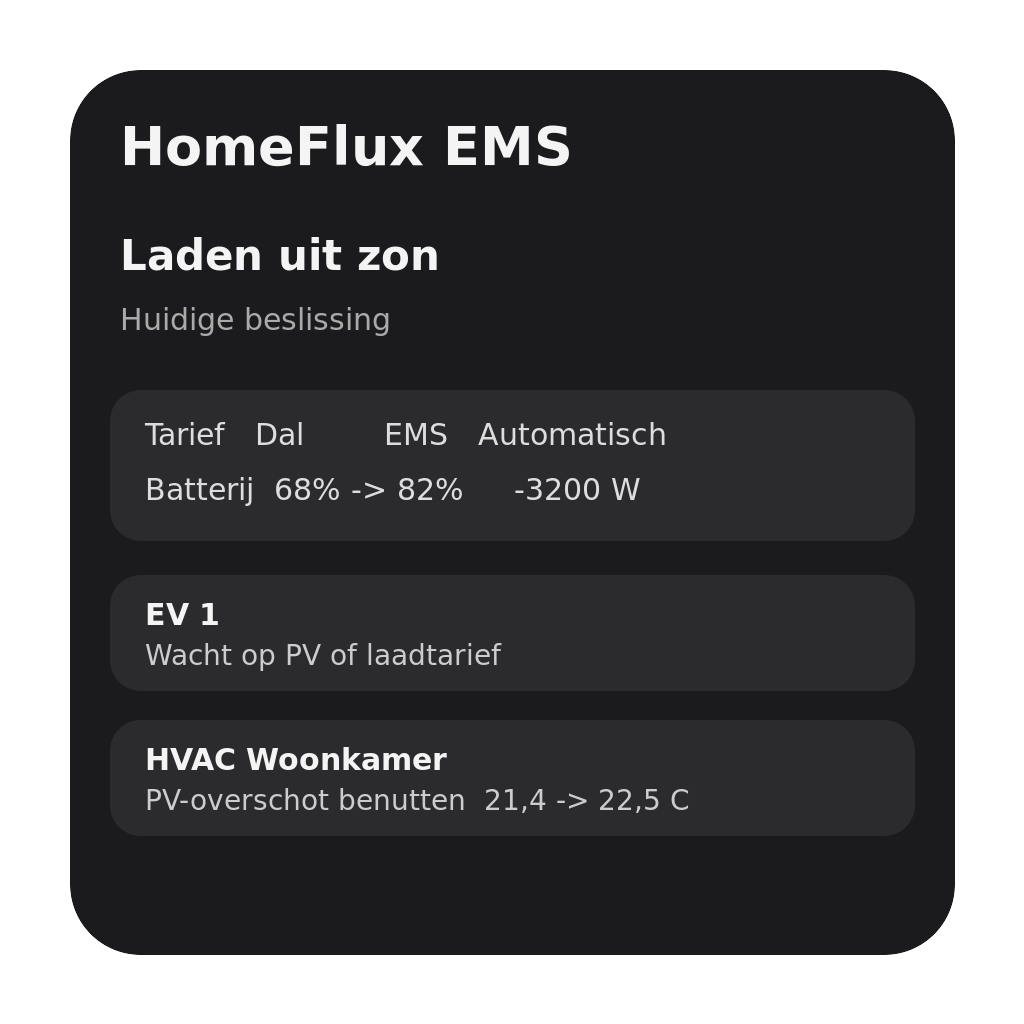
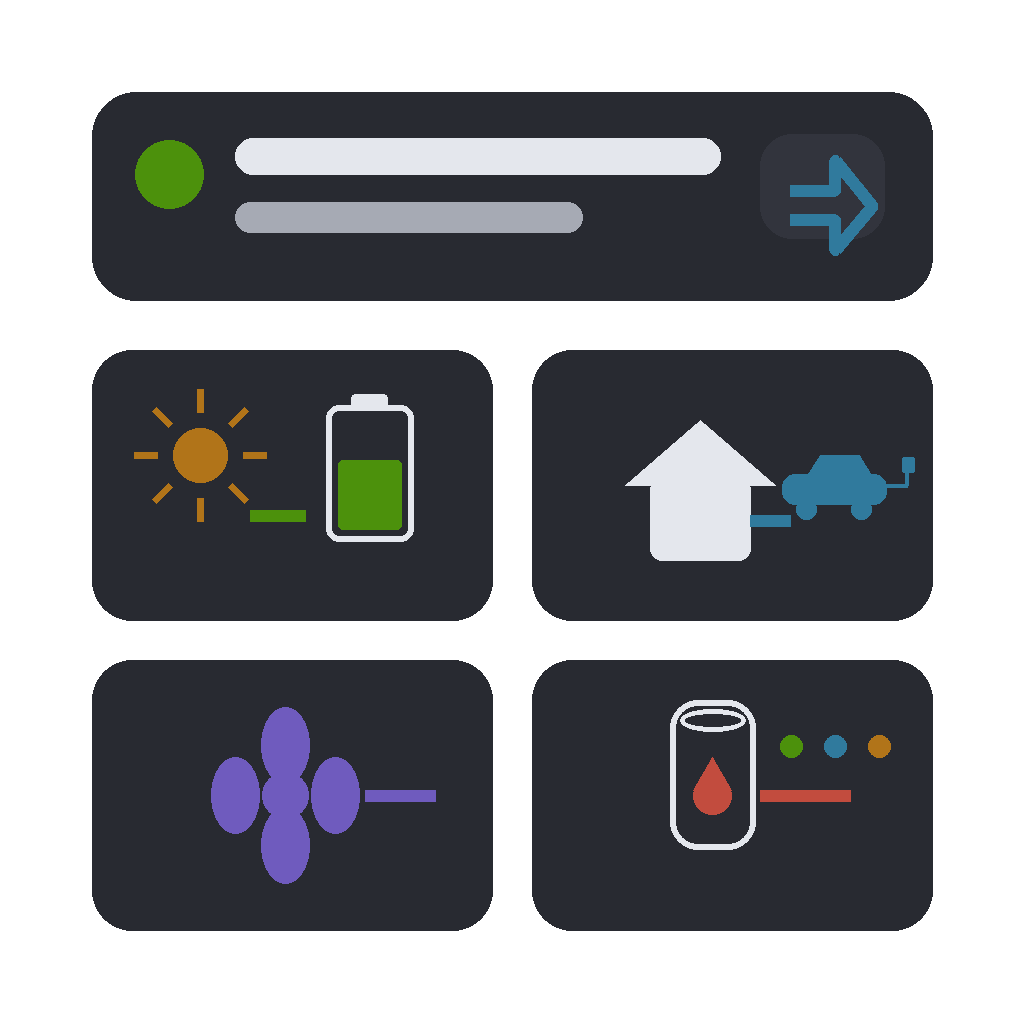
Prepare release v0.4.17

Changed region(s): [[0.0625, 0.0625, 0.9375, 0.9375], [0.125, 0.6875, 0.4375, 0.875]]

diff --git a/test/settings-startup.test.js b/test/settings-startup.test.js
@@ -15,13 +15,13 @@ const localeEn = JSON.parse(fs.readFileSync(path.join(root, 'locales', 'en.json'
 const settingsTranslationEn = fs.readFileSync(path.join(root, 'settings', 'translations', 'en.json'), 'utf8');
 
 for (const manifest of [appJson, composeJson]) {
-  assert.equal(manifest.version, '0.4.16');
+  assert.equal(manifest.version, '0.4.17');
   assert.deepStrictEqual(manifest.api.getSettingsSnapshot, { method: 'GET', path: '/settings-snapshot' });
   assert.deepStrictEqual(manifest.api.simulatePlanning, { method: 'POST', path: '/planning/simulate' });
   assert.deepStrictEqual(manifest.api.getSavings, { method: 'GET', path: '/savings' });
 }
-assert.equal(localeNl.settings.subtitle, 'v0.4.16 — HomeFlux, jouw energie, anders geregeld');
-assert.equal(localeEn.settings.subtitle, 'v0.4.16 — HomeFlux, your energy, managed differently');
+assert.equal(localeNl.settings.subtitle, 'v0.4.17 — HomeFlux, jouw energie, anders geregeld');
+assert.equal(localeEn.settings.subtitle, 'v0.4.17 — HomeFlux, your energy, managed differently');
 assert(apiJs.includes('async getSettingsSnapshot({ homey })'));
 assert(apiJs.includes('homey.app.getSettingsSnapshot()'));
 assert(appJs.includes('getSettingsSnapshot()'));

diff --git a/test/widget.test.js b/test/widget.test.js
@@ -18,11 +18,11 @@ const packageLock = JSON.parse(fs.readFileSync(path.join(root, 'package-lock.jso
 
 assert.equal(appCompose.compatibility, '>=12.3.0');
 assert.equal(manifest.compatibility, appCompose.compatibility);
-assert.equal(manifest.version, '0.4.16');
-assert.equal(appCompose.version, '0.4.16');
-assert.equal(packageJson.version, '0.4.16');
-assert.equal(packageLock.version, '0.4.16');
-assert.equal(packageLock.packages[''].version, '0.4.16');
+assert.equal(manifest.version, '0.4.17');
+assert.equal(appCompose.version, '0.4.17');
+assert.equal(packageJson.version, '0.4.17');
+assert.equal(packageLock.version, '0.4.17');
+assert.equal(packageLock.packages[''].version, '0.4.17');
 assert.deepEqual(manifest.widgets.savings, { ...compose, id: 'savings' }, 'generated widget manifest must match widget Compose');
 assert.deepEqual(manifest.widgets.status, { ...statusCompose, id: 'status' }, 'generated status widget manifest must match widget Compose');
 for (const id of ['showReasons', 'showTariff', 'showNextTariff', 'showPriceStatus', 'showNextCharge', 'showPlanningPhase', 'showPlanningForecast', 'showPlanningNeed', 'showPlanningGrid', 'showPlanningSolar']) {

diff --git a/settings/index.html b/settings/index.html
@@ -609,7 +609,7 @@
 <body>
 <header class="homey-header">
 <h1 class="homey-title" data-i18n="settings.title">HomeFlux EMS</h1>
-<p class="homey-subtitle" data-i18n="settings.subtitle">v0.4.16 — HomeFlux, jouw energie, anders geregeld</p>
+<p class="homey-subtitle" data-i18n="settings.subtitle">v0.4.17 — HomeFlux, jouw energie, anders geregeld</p>
 </header>
 <div class="tabs">
 <button class="tab active" data-tab="ems" type="button">EMS</button>

diff --git a/app.js b/app.js
@@ -440,7 +440,7 @@ class HomeFluxEmsApp extends Homey.App {
     this.contextHeartbeatTimer = this.homey.setInterval(() => this.runContextHeartbeat(), 60000);
     this.checkNightPlanningFallback();
     await this.runContextEvaluation(true);
-    this.log('HomeFlux EMS v0.4.16 initialized');
+    this.log('HomeFlux EMS v0.4.17 initialized');
   }
 
   refreshSettingsCache() {
